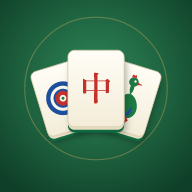
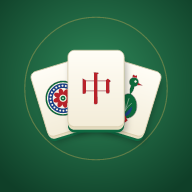
牌の絵柄を本物寄りにして、ヘッダーの名前を少し下げる
- 絵柄を彫り込んで色を入れたように見せ、色を本物の牌に近づける
- 筒子に玉の飾り、索子に節のふくらみと筋、一筒に花びら、白に二重の枠
- 牌の本体に表面のつやと厚みを足す
- スマホの時計・電池の表示と重ならないよう、ヘッダーの上の余白を広げる

diff --git a/src/ui/tileSvg.ts b/src/ui/tileSvg.ts
@@ -1,11 +1,37 @@
 // 牌の面の絵柄を SVG で描く。画面（Tile.tsx）とアイコンを描くスクリプトの両方で使う。
 // 座標は横60×縦80（牌の面だけ。縁や厚みは CSS で付ける）。
 
-const BLUE = '#1d4f9c';
-const GREEN = '#1c7a43';
-const RED = '#c4302b';
-const INK = '#1b1b1b';
-const IVORY = '#fbf7ec';
+// 本物の牌に寄せた、少し沈んだ藍・緑・朱
+const BLUE = '#1a3f85';
+const GREEN = '#0e6a3a';
+const RED = '#b8222a';
+const INK = '#151515';
+const IVORY = '#f8f3e4';
+
+/** 縁取りに使う、同じ色の濃い版 */
+const DARK: Record<string, string> = {
+  [BLUE]: '#0f2756',
+  [GREEN]: '#084524',
+  [RED]: '#7d1218',
+  [INK]: '#000000',
+};
+
+/**
+ * 彫って色を入れたように見せる。彫りの上の縁に影、下の縁に光を付ける。
+ * 同じ id の定義が牌ごとに入るが、中身が同じなのでどれが使われても見た目は変わらない
+ */
+const ENGRAVE_DEFS =
+  '<defs><filter id="tile-engrave" x="-5%" y="-5%" width="110%" height="110%">' +
+  '<feOffset in="SourceAlpha" dy="0.7" result="down"/>' +
+  '<feFlood flood-color="#ffffff" flood-opacity="0.95"/>' +
+  '<feComposite in2="down" operator="in" result="light"/>' +
+  '<feComposite in="SourceAlpha" in2="down" operator="out" result="topEdge"/>' +
+  '<feFlood flood-color="#000000" flood-opacity="0.45"/>' +
+  '<feComposite in2="topEdge" operator="in" result="shade"/>' +
+  '<feMerge><feMergeNode in="light"/><feMergeNode in="SourceGraphic"/><feMergeNode in="shade"/></feMerge>' +
+  '</filter></defs>';
+
+const engraved = (body: string) => `${ENGRAVE_DEFS}<g filter="url(#tile-engrave)">${body}</g>`;
 
 export const KANJI_FONT = "'Yu Mincho','YuMincho','Hiragino Mincho ProN','Noto Serif JP','Noto Serif CJK JP','MS Mincho',serif";
 
@@ -15,27 +41,52 @@ const HONORS = ['', '東', '南', '西', '北', '白', '發', '中'];
 type Dot = [x: number, y: number, r: number, color: string];
 type Stick = [x: number, y: number, length: number, color: string];
 
-/** 筒子の丸。外の輪・内の輪・真ん中の点 */
+const f = (n: number) => Number(n.toFixed(2));
+
+/** 円の周りに小さな玉を並べる */
+function beads(x: number, y: number, radius: number, count: number, size: number, color: string): string {
+  let s = '';
+  for (let i = 0; i < count; i++) {
+    const a = (Math.PI * 2 * i) / count;
+    s += `<circle cx="${f(x + Math.cos(a) * radius)}" cy="${f(y + Math.sin(a) * radius)}" r="${f(size)}" fill="${color}"/>`;
+  }
+  return s;
+}
+
+/** 筒子の丸。細い外輪・玉を並べた輪・真ん中の花 */
 function circle([x, y, r, c]: Dot): string {
   return (
     `<circle cx="${x}" cy="${y}" r="${r}" fill="${c}"/>` +
-    `<circle cx="${x}" cy="${y}" r="${r * 0.74}" fill="${IVORY}"/>` +
-    `<circle cx="${x}" cy="${y}" r="${r * 0.56}" fill="${c}"/>` +
-    `<circle cx="${x}" cy="${y}" r="${r * 0.2}" fill="${IVORY}"/>`
+    `<circle cx="${x}" cy="${y}" r="${f(r * 0.84)}" fill="${IVORY}"/>` +
+    `<circle cx="${x}" cy="${y}" r="${f(r * 0.74)}" fill="${c}"/>` +
+    beads(x, y, r * 0.56, r >= 10 ? 12 : 10, r * 0.085, IVORY) +
+    `<circle cx="${x}" cy="${y}" r="${f(r * 0.38)}" fill="${IVORY}"/>` +
+    `<circle cx="${x}" cy="${y}" r="${f(r * 0.29)}" fill="${c}"/>` +
+    `<circle cx="${x}" cy="${y}" r="${f(r * 0.1)}" fill="${IVORY}"/>`
   );
 }
 
-/** 索子の竹。節を3か所 */
+/** 索子の竹。縁取りした茎・節のふくらみ・節の間の筋 */
 function stick([x, y, len, c]: Stick): string {
   const top = y - len / 2;
-  const w = 7.6;
+  const bottom = y + len / 2;
+  const w = 7.4;
+  const dark = DARK[c] ?? c;
+  const joints = [top + 1.2, y, bottom - 1.2];
+  const ribs = [
+    [top + 2.6, y - 1.4],
+    [y + 1.4, bottom - 2.6],
+  ];
   return (
-    `<rect x="${x - w / 2}" y="${top}" width="${w}" height="${len}" rx="${w / 2}" fill="${c}"/>` +
-    `<rect x="${x - 0.9}" y="${top + 2.5}" width="1.8" height="${len - 5}" rx="0.9" fill="${IVORY}" opacity="0.45"/>` +
-    [top + 1.6, y, top + len - 1.6]
-      .map((ny) => `<rect x="${x - w / 2 - 0.6}" y="${ny - 0.9}" width="${w + 1.2}" height="1.8" rx="0.9" fill="${c}"/>`)
-      .join('') +
-    `<rect x="${x - w / 2}" y="${y - 0.4}" width="${w}" height="0.8" fill="${IVORY}" opacity="0.8"/>`
+    `<rect x="${f(x - w / 2)}" y="${f(top)}" width="${w}" height="${len}" rx="${f(w / 2.2)}" fill="${c}" stroke="${dark}" stroke-width="0.5"/>` +
+    ribs.map(([a, b]) => `<line x1="${x}" y1="${f(a)}" x2="${x}" y2="${f(b)}" stroke="${IVORY}" stroke-width="1.3" stroke-linecap="round" opacity="0.85"/>`).join('') +
+    joints
+      .map(
+        (ny) =>
+          `<ellipse cx="${x}" cy="${f(ny)}" rx="${f(w / 2 + 0.9)}" ry="1.25" fill="${c}" stroke="${dark}" stroke-width="0.45"/>` +
+          `<line x1="${f(x - w / 2 + 0.6)}" y1="${f(ny)}" x2="${f(x + w / 2 - 0.6)}" y2="${f(ny)}" stroke="${IVORY}" stroke-width="0.45" opacity="0.7"/>`,
+      )
+      .join('')
   );
 }
 
@@ -167,7 +218,8 @@ const SOU: Record<number, Stick[]> = {
 
 /** 一索の鳥 */
 const BIRD =
-  `<path d="M30 70 C18 70 13 60 15 50 C17 40 24 34 30 33 C36 34 43 40 45 50 C47 60 42 70 30 70Z" fill="${GREEN}"/>` +
+  `<path d="M30 70 C18 70 13 60 15 50 C17 40 24 34 30 33 C36 34 43 40 45 50 C47 60 42 70 30 70Z" fill="${GREEN}" stroke="${DARK[GREEN]}" stroke-width="0.6"/>` +
+  `<path d="M24 46 C27 50 29 54 30 60 M36 46 C33 50 31 54 30 60 M30 40 L30 58" stroke="${IVORY}" stroke-width="0.9" fill="none" opacity="0.7"/>` +
   `<path d="M30 68 C23 66 20 58 22 50 C25 56 28 60 30 68Z" fill="${BLUE}"/>` +
   `<path d="M30 68 C37 66 40 58 38 50 C35 56 32 60 30 68Z" fill="${BLUE}"/>` +
   `<path d="M22 72 L30 64 L38 72 L34 77 L30 72 L26 77Z" fill="${RED}"/>` +
@@ -183,29 +235,45 @@ function text(ch: string, y: number, size: number, color: string): string {
 
 /** 牌の面の SVG（<svg> の中身）。tile は "1m" "0p" "7z" などの書き方 */
 export function tileFaceSvg(tile: string): string {
+  return engraved(faceBody(tile));
+}
+
+/** 一筒。外輪・玉の輪・花びらの輪・真ん中 */
+const ONE_PIN =
+  `<circle cx="30" cy="40" r="26" fill="${GREEN}"/>` +
+  `<circle cx="30" cy="40" r="23.6" fill="${IVORY}"/>` +
+  `<circle cx="30" cy="40" r="22" fill="${BLUE}"/>` +
+  beads(30, 40, 18.6, 24, 1.5, IVORY) +
+  `<circle cx="30" cy="40" r="15.2" fill="${IVORY}"/>` +
+  Array.from({ length: 8 }, (_, i) => {
+    const a = i * 45;
+    return `<ellipse cx="30" cy="31.5" rx="3.6" ry="6.2" fill="${RED}" transform="rotate(${a} 30 40)"/>`;
+  }).join('') +
+  `<circle cx="30" cy="40" r="5.4" fill="${IVORY}"/>` +
+  `<circle cx="30" cy="40" r="3.6" fill="${GREEN}"/>` +
+  `<circle cx="30" cy="40" r="1.3" fill="${IVORY}"/>`;
+
+function faceBody(tile: string): string {
   const red = tile[0] === '0';
   const num = red ? 5 : Number(tile[0]);
   const recolor = (c: string) => (red ? RED : c);
   switch (tile[1]) {
     case 'm':
-      return text(KANJI_NUMBERS[num], 33, 30, red ? RED : INK) + text('萬', 71, 31, RED);
+      return text(KANJI_NUMBERS[num], 33, 31, red ? RED : INK) + text('萬', 72, 32, RED);
     case 'p':
-      if (num === 1) {
-        return (
-          circle([30, 40, 25, BLUE]) +
-          `<circle cx="30" cy="40" r="11" fill="${RED}"/>` +
-          `<circle cx="30" cy="40" r="5" fill="${IVORY}"/>` +
-          `<circle cx="30" cy="40" r="2.2" fill="${GREEN}"/>`
-        );
-      }
+      if (num === 1) return ONE_PIN;
       return PIN[num].map(([x, y, r, c]) => circle([x, y, r, recolor(c)])).join('');
     case 's':
       if (num === 1) return BIRD;
       return SOU[num].map(([x, y, l, c]) => stick([x, y, l, recolor(c)])).join('');
     default:
       if (num === 5) {
-        return `<rect x="13" y="16" width="34" height="48" rx="2.5" fill="none" stroke="${BLUE}" stroke-width="3"/>`;
+        // 白は二重の枠
+        return (
+          `<rect x="11" y="13" width="38" height="54" rx="3" fill="none" stroke="${BLUE}" stroke-width="2.6"/>` +
+          `<rect x="15.5" y="17.5" width="29" height="45" rx="1.5" fill="none" stroke="${BLUE}" stroke-width="1"/>`
+        );
       }
-      return text(HONORS[num], 56, 44, num === 6 ? GREEN : num === 7 ? RED : INK);
+      return text(HONORS[num], 57, 46, num === 6 ? GREEN : num === 7 ? RED : INK);
   }
 }

diff --git a/src/styles.css b/src/styles.css
@@ -80,8 +80,9 @@ h3 {
   display: flex;
   justify-content: space-between;
   align-items: center;
-  padding: 8px 14px;
-  padding-top: calc(8px + env(safe-area-inset-top));
+  padding: 8px 14px 9px;
+  /* スマホの時計・電池の表示の下に、少し間をあけてから名前を置く */
+  padding-top: calc(16px + env(safe-area-inset-top));
   background: linear-gradient(rgb(5 25 16 / 0.92), rgb(5 25 16 / 0.82));
   border-bottom: 1px solid var(--panel-line);
 }
@@ -371,13 +372,20 @@ main {
   position: relative;
   display: inline-block;
   padding: 0;
-  background: linear-gradient(var(--tile-face-top), var(--tile-face-bottom));
+  /* 左上から光が当たったような表面のつや */
+  background:
+    radial-gradient(ellipse 90% 60% at 25% 10%, rgb(255 255 255 / 0.9), transparent 60%),
+    linear-gradient(170deg, var(--tile-face-top), var(--tile-face-bottom) 85%, #e6dcc0);
   border: 1px solid var(--tile-edge);
   border-radius: 6px;
   box-shadow:
+    inset 0 1px 0 #fff,
+    inset 0 -2px 3px rgb(120 100 60 / 0.12),
     0 2px 0 #e3d8b9,
+    0 3px 0 #d8cca9,
     0 4px 0 var(--tile-back),
-    0 5px 7px rgb(0 0 0 / 0.4);
+    0 5px 0 #136b40,
+    0 6px 8px rgb(0 0 0 / 0.45);
   user-select: none;
   line-height: 0;
   vertical-align: bottom;
